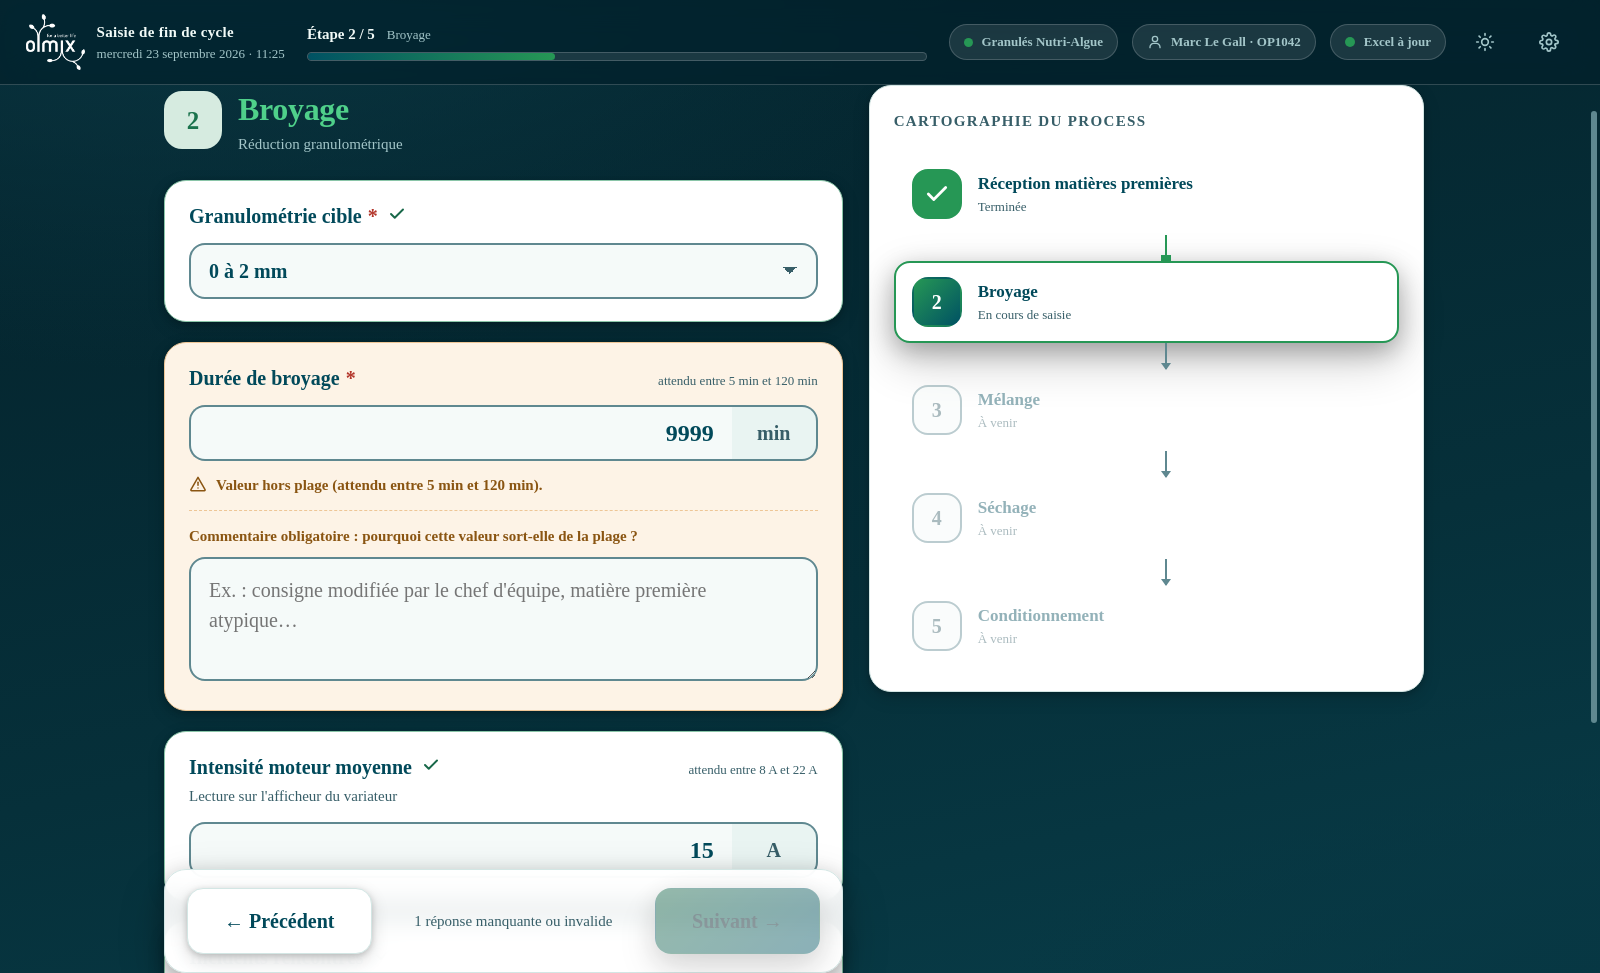
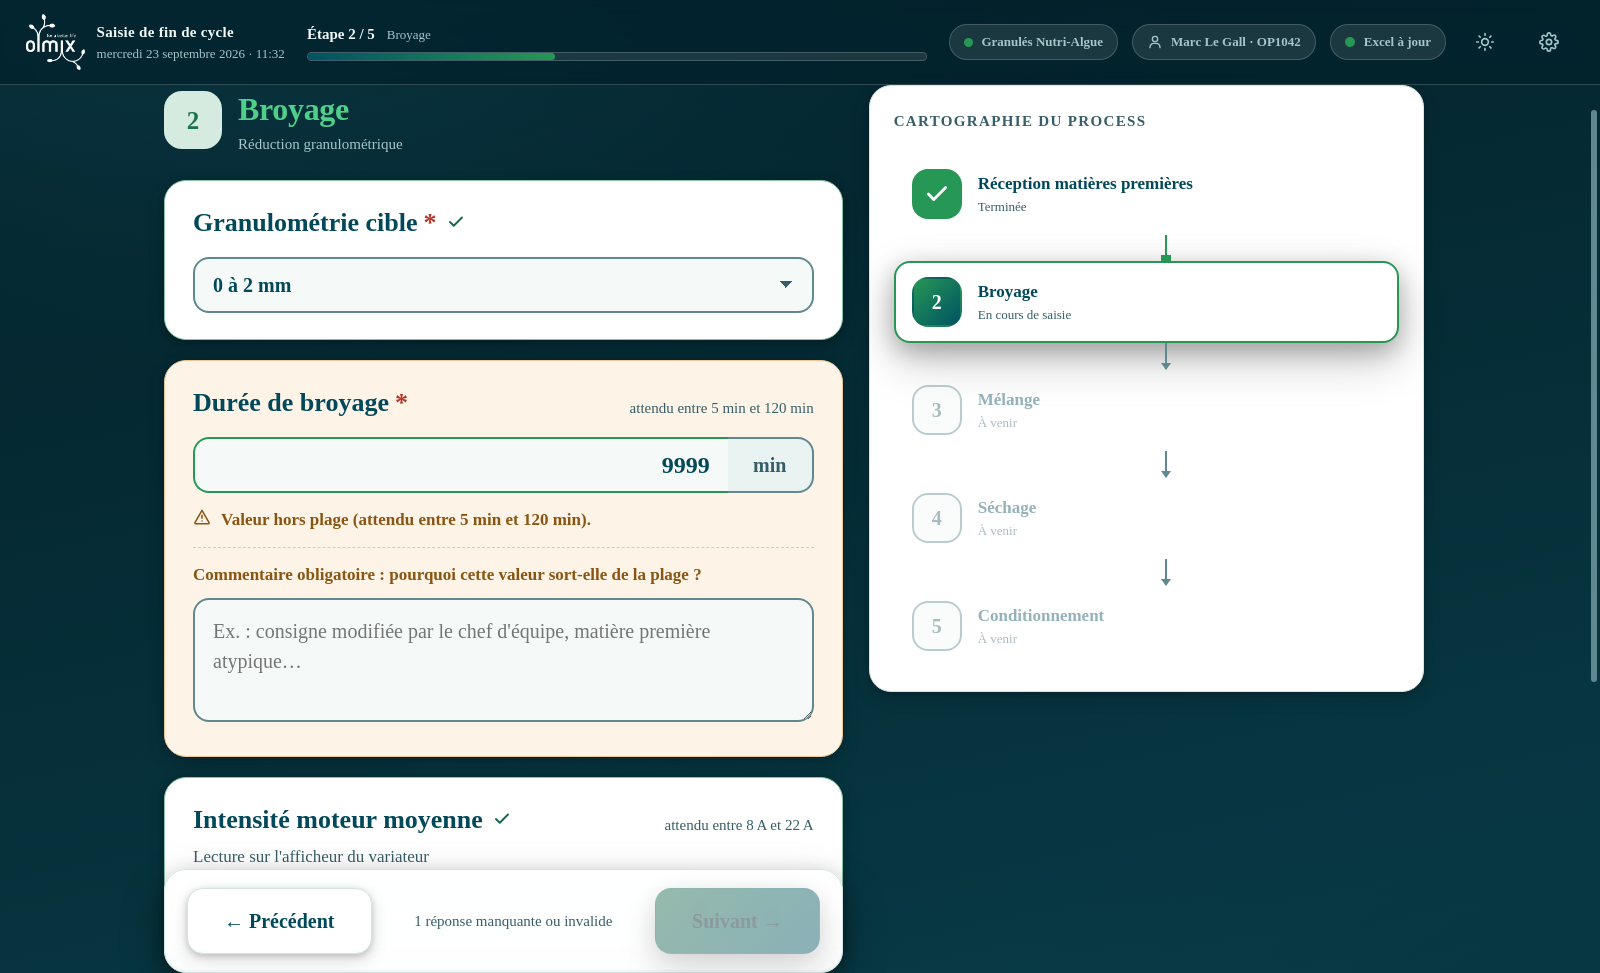
Agrandit le libellé des questions
Les questions s'effaçaient parce qu'elles étaient plus petites que la valeur
saisie : libellé à 20 px, valeur numérique à 24 px. L'œil allait donc au
chiffre avant d'aller à la question.

Le libellé passe à 26 px en gras et domine désormais la valeur. La taille est
portée par un jeton dédié, --t-question, pour pouvoir l'ajuster d'un seul
endroit si l'atelier la veut plus grande encore.

Suivent le même mouvement, pour que l'ensemble reste cohérent plutôt que de
laisser un titre isolé au milieu de petits textes : le texte d'aide, les
bornes attendues, les messages d'alerte et d'erreur, le libellé du commentaire
obligatoire et les options à cocher. L'espacement interne des cartes est
augmenté en conséquence.

Claude-Session: https://claude.ai/code/session_01Cncv6j2togXTPjYGL4z96A

diff --git a/src/styles/global.css b/src/styles/global.css
@@ -281,7 +281,7 @@ h1, h2, h3, p { margin: 0; }
 /* --- Champs --- */
 
 .champ {
-  padding: 22px 24px; border-radius: var(--r-l); background: var(--surface);
+  padding: 26px 28px; border-radius: var(--r-l); background: var(--surface);
   border: 1px solid var(--bordure); box-shadow: var(--ombre-1);
   transition: border-color var(--transition), box-shadow var(--transition), background var(--transition);
 }
@@ -289,11 +289,11 @@ h1, h2, h3, p { margin: 0; }
 .champ--erreur { border-color: var(--erreur-bord); background: var(--erreur-fond); }
 .champ--valide { border-color: color-mix(in srgb, var(--succes) 42%, var(--bordure)); }
 
-.champ__entete { display: flex; align-items: flex-start; justify-content: space-between; gap: 16px; margin-bottom: 14px; }
-.champ__libelle { font-size: var(--t-l); font-weight: 680; line-height: 1.3; }
+.champ__entete { display: flex; align-items: flex-start; justify-content: space-between; gap: 18px; margin-bottom: 18px; }
+.champ__libelle { font-size: var(--t-question); font-weight: 700; line-height: 1.24; }
 .champ__obligatoire { color: var(--erreur); margin-left: 6px; font-weight: 800; }
-.champ__aide { margin-top: 5px; font-size: var(--t-s); color: var(--texte-doux); }
-.champ__bornes { font-size: var(--t-xs); color: var(--texte-doux); white-space: nowrap; padding-top: 6px; }
+.champ__aide { margin-top: 8px; font-size: var(--t-m); color: var(--texte-doux); }
+.champ__bornes { font-size: var(--t-s); color: var(--texte-doux); white-space: nowrap; padding-top: 10px; }
 
 .saisie {
   width: 100%; min-height: var(--cible); padding: 0 18px;
@@ -335,7 +335,7 @@ select.saisie { cursor: pointer; appearance: none;
 .case-option {
   display: flex; align-items: center; gap: 13px; min-height: var(--cible); padding: 0 18px;
   border: 2px solid var(--bordure-forte); border-radius: var(--r-m); background: var(--surface-2);
-  font-size: var(--t-m); font-weight: 600; cursor: pointer; transition: all var(--transition);
+  font-size: var(--t-l); font-weight: 600; cursor: pointer; transition: all var(--transition);
 }
 .case-option:hover { border-color: var(--vert-500); }
 .case-option--cochee { background: var(--ecume); border-color: var(--vert-600); }
@@ -347,13 +347,13 @@ select.saisie { cursor: pointer; appearance: none;
 .case-option--cochee .case-option__boite { background: var(--vert-600); border-color: var(--vert-600); }
 
 /* Messages de champ */
-.message { display: flex; align-items: flex-start; gap: 9px; margin-top: 13px; font-size: var(--t-s); font-weight: 600; }
+.message { display: flex; align-items: flex-start; gap: 10px; margin-top: 14px; font-size: var(--t-m); font-weight: 600; }
 .message--erreur { color: var(--erreur); }
 .message--alerte { color: var(--alerte-texte); }
 .message__icone { display: flex; flex: none; padding-top: 1px; }
 
 .commentaire-requis { margin-top: 14px; padding-top: 14px; border-top: 1px dashed var(--alerte-bord); }
-.commentaire-requis__titre { font-size: var(--t-s); font-weight: 700; margin-bottom: 9px; color: var(--alerte-texte); }
+.commentaire-requis__titre { font-size: var(--t-m); font-weight: 700; margin-bottom: 11px; color: var(--alerte-texte); }
 
 /* --- Cartographie du processus --- */
 

diff --git a/src/styles/tokens.css b/src/styles/tokens.css
@@ -105,6 +105,12 @@
   --t-2xl: 2rem;
   --t-3xl: 2.75rem;
 
+  /* Taille du libellé d'une question. Elle doit dominer la valeur saisie
+     (--t-xl) : c'est la question qu'on lit en premier, pas le chiffre qu'on
+     vient de taper. Un seul jeton à ajuster si l'atelier la veut encore plus
+     grande. */
+  --t-question: 1.625rem;
+
   /* Cible tactile minimale (recommandation d'ergonomie : 48 px) */
   --cible: 56px;
 

diff --git a/README.md b/README.md
@@ -181,7 +181,10 @@ win:
    définie en configuration, sert d'infobulle et reste visible dans le mode
    administrateur.
 2. **Formulaire** — une page par étape du processus.
-   - À gauche (≈ 55 %) : les questions de l'étape.
+   - À gauche (≈ 55 %) : les questions de l'étape. Le libellé d'une question est
+     volontairement plus grand que la valeur saisie : c'est la question qu'on lit en
+     premier, pas le chiffre qu'on vient de taper. Sa taille se règle d'un seul jeton,
+     `--t-question` dans `src/styles/tokens.css`.
    - À droite (≈ 45 %) : la cartographie du processus. L'étape en cours est mise en
      surbrillance et animée, les étapes terminées portent une coche verte, les suivantes
      sont grisées. Les étapes déjà parcourues sont cliquables.
